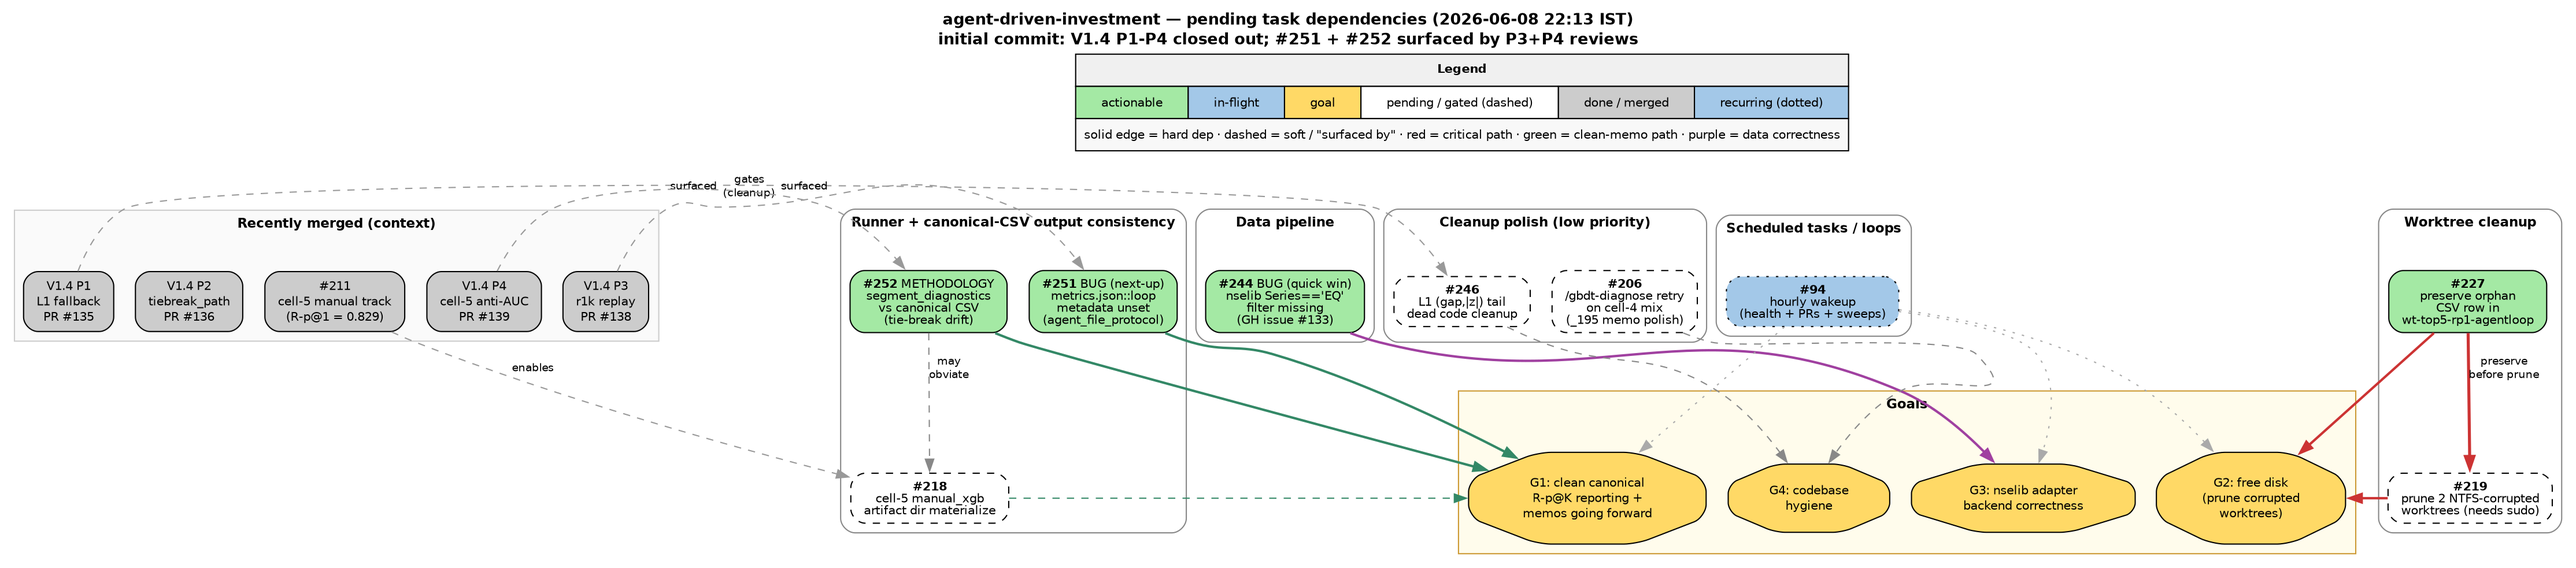
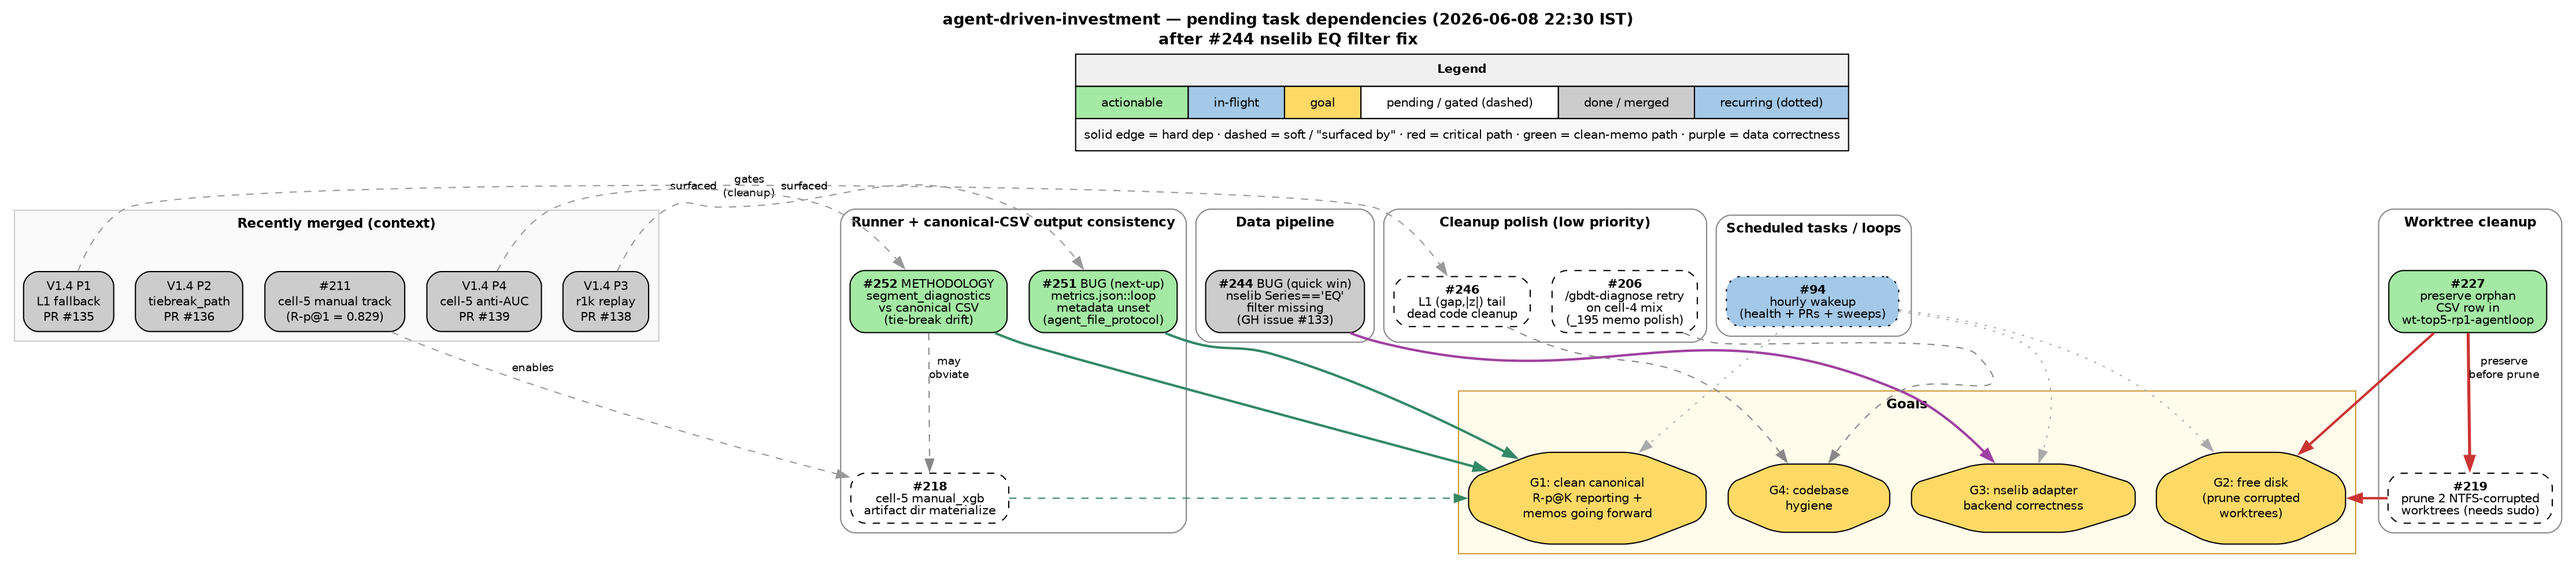
data_pipelines FIX — nselib adapter missing Series == 'EQ' filter (#244, fixes GH #133)
NSElibAdapter.parse() didn't filter the equity payload to Series == "EQ",
unlike the sister JugaadAdapter which has had that filter since the v1.7
NIFTY 50 seed run. nselib's price_volume_data returns the same multi-
series rows jugaad does (EQ + BL + T0 + N1 + ...), so on block-deal days
the same (ticker, date) shows up twice — first hit on insert is a UNIQUE
constraint trip on the cache PK.

The bug is latent because the current adapter chain serves all NSE
equities through jugaad first; nselib only serves indices. Any chain
reorder or jugaad outage would have hit it. Fix mirrors jugaad's filter
at the same logical point (after the rename branch, before column
normalization).

Test: tests/data_pipelines/domains/nse_equities/test_adapters.py adds
test_nselib_parse_drops_non_eq_series — constructs a 3-row CSV fixture
with EQ + BL + N1 rows for the same date, asserts only the EQ row
survives parse(). All 507 data_pipelines tests pass.

Task graph: docs/task_dependencies.{dot,png,svg} flips t244 to gray
(done) and refreshes the title timestamp + subtitle.

Changed region(s): [[0.4679, 0.4578, 0.5303, 0.6104], [0.3431, 0.061, 0.6551, 0.0916]]

diff --git a/tests/data_pipelines/domains/nse_equities/test_adapters.py b/tests/data_pipelines/domains/nse_equities/test_adapters.py
@@ -145,6 +145,30 @@ def test_nselib_parse_then_normalize_passes_schema_index():
     _normalize_and_validate(df, NSElibAdapter(), "NIFTY:50")
 
 
+def test_nselib_parse_drops_non_eq_series(tmp_path):
+    """If the nselib CSV payload contains both EQ + BL rows for the same date,
+    parse() must keep only EQ. Mirrors the JugaadAdapter regression — same
+    bug class (#244 / GH #133): nselib's price_volume_data also returns the
+    multi-series rows, and BL/T0/N1 collide on the (ticker, date) PK."""
+    p = tmp_path / "mixed.csv"
+    p.write_text(
+        "Symbol,Series,Date,PrevClose,OpenPrice,HighPrice,LowPrice,LastPrice,"
+        "ClosePrice,AveragePrice,TotalTradedQuantity,Turnover₹,No.ofTrades\n"
+        # EQ row
+        'RELIANCE,EQ,01-Apr-2025,"99.0","100.0","102.0","99.0","101.0","101.0",'
+        '"100.5","1000","1,00,500.00","50"\n'
+        # BL row, same date — must be dropped
+        'RELIANCE,BL,01-Apr-2025,"99.0","99.5","99.5","99.5","99.5","99.5",'
+        '"99.5","50","4,975.00","1"\n'
+        # N1 row, same date — must also be dropped
+        'RELIANCE,N1,01-Apr-2025,"99.0","99.0","99.0","99.0","99.0","99.0",'
+        '"99.0","10","990.00","1"\n'
+    )
+    df = NSElibAdapter().parse(p)
+    assert len(df) == 1
+    assert df["close"].iloc[0] == 101.0  # EQ row, not BL/N1
+
+
 def test_nselib_meta_is_quality_none_inr():
     a = NSElibAdapter()
     assert a.extra_meta == {"adjustment_quality": QUALITY_NONE, "currency": "INR"}

diff --git a/src/data_pipelines/domains/nse_equities/adapters/nselib.py b/src/data_pipelines/domains/nse_equities/adapters/nselib.py
@@ -162,6 +162,12 @@ class NSElibAdapter(Adapter):
             df["date"] = pd.to_datetime(df["date"], format="%d-%b-%Y", errors="coerce")
         else:
             # Equity payload — has the Indian-comma + unicode rupee quirks.
+            # nselib's price_volume_data returns the same multi-series rows
+            # jugaad does (EQ + BL + T0 + …). Keep only EQ — block-deal/bond
+            # rows collide on the cache's (ticker, date) primary key. Mirrors
+            # JugaadAdapter's filter (#244 / GH #133).
+            if "Series" in df.columns:
+                df = df[df["Series"] == "EQ"].copy()
             # Normalize Turnover column name (₹ suffix dropped).
             df = df.rename(columns={c: "Turnover" for c in df.columns if c.startswith("Turnover")})
             df = df.rename(columns={
